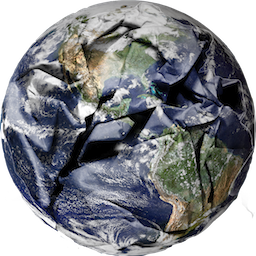
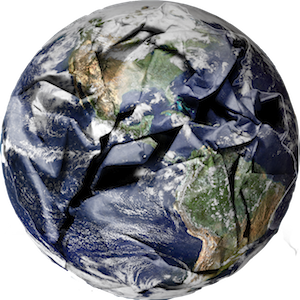
fixed explosions to actually happen at the right place after a collision, by using the physics enging box2d instead of rectangles to actual detect the collision

diff --git a/sat/sat/UniverseLayer.mm b/sat/sat/UniverseLayer.mm
@@ -8,7 +8,6 @@
 
 // Import the interfaces
 #import "UniverseLayer.h"
-
 // Needed to obtain the Navigation Controller
 #import "AppDelegate.h"
 
@@ -98,7 +97,9 @@ enum {
 	gravity.Set(0.0f, 0.0f);
 	world = new b2World(gravity);
 	
-	
+  // Create contact listener
+  _contactListener = new MyContactListener();
+  world->SetContactListener(_contactListener);
 	// Do we want to let bodies sleep?
 	world->SetAllowSleeping(true);
 	
@@ -157,9 +158,11 @@ enum {
   thePlanet->CreateFixture(&fixtureDef);
 
 	PhysicsSprite *sprite = [PhysicsSprite spriteWithFile:planetImage];
+  sprite.type = PLANET;
 
 	sprite.position=ccp(pX/PTM_RATIO,pY/PTM_RATIO);
 	[sprite setPhysicsBody:thePlanet];
+  thePlanet->SetUserData(sprite);
 	[_planets addObject:sprite];
   [self addChild:sprite];
 	
@@ -170,6 +173,7 @@ enum {
 -(void) addRocketAtPosition:(CGPoint)p  inDirection:(b2Vec2)direction imageNamed:(NSString*)bodyImage {
   CGSize s = [[CCDirector sharedDirector] winSize];
   PhysicsSprite *sprite = [PhysicsSprite spriteWithFile:bodyImage];
+   sprite.type = ROCKET;
   sprite.position = ccp( p.x, p.y);
   b2BodyDef bodyDef;
   bodyDef.type = b2_dynamicBody;
@@ -179,6 +183,7 @@ enum {
   body->ApplyForce(direction, center);
   [sprite setPhysicsBody:body];
   [self addChild:sprite];
+  body->SetUserData(sprite);
   self.rocket=sprite;
 }
 
@@ -188,6 +193,7 @@ enum {
     CCLOG(@"Add sprite %0.2f x %02.f",p.x,p.y);
   
     PhysicsSprite *sprite = [PhysicsSprite spriteWithFile:bodyImage];
+    sprite.type = SATELLITE;
     sprite.oldvel=0;
     sprite.velchange=0;
     sprite.oldDis=0;
@@ -242,9 +248,10 @@ enum {
 
 
   world->ClearForces();
-  NSMutableSet *collidedSatellites = [[NSMutableSet alloc] init];
+  
   for (PhysicsSprite *sat in _satellites){
     b2Vec2 debrisPosition=[sat getPhysicsBody]->GetWorldCenter();
+    b2CircleShape *satelliteShape=(b2CircleShape *)([sat getPhysicsBody]->GetFixtureList()->GetShape());
     for(PhysicsSprite *planet  in _planets){
       
       b2CircleShape *planetShape=(b2CircleShape *)([planet getPhysicsBody]->GetFixtureList()->GetShape());
@@ -265,46 +272,83 @@ enum {
         // This is the final formula to make the gravity weaker as we move far from the planet TODO: do we want this?
         [sat getPhysicsBody]->ApplyForce(planetDistance, [sat getPhysicsBody]->GetWorldCenter());
         
-        CGRect projectileRect = [sat boundingBox];
-        CGRect targetRects = [planet boundingBox];
-        if (CGRectIntersectsRect(projectileRect, targetRects)) {
-          [collidedSatellites addObject:sat];
-        }
+//        CGRect projectileRect = [sat boundingBox];
+//        CGRect targetRects = [planet boundingBox];
+//        if (CGRectIntersectsRect(projectileRect, targetRects)) {
+////        if([self circleIsColliding:satelliteShape withCircle:planetShape]) {
+//          [collidedSatellites addObject:sat];
+//        }
       }
     }
+  // DO collision detection
+    
+  NSSet* collidedSats=[self detectCollisions];
+
+  [self satellitesDidCrash:collidedSats];
+}
+
+-(NSSet*) detectCollisions {
+  NSMutableSet *collidedSatellites = [[NSMutableSet alloc] init];
+  std::vector<MyContact>::iterator pos;
+  for(pos = _contactListener->_contacts.begin();
+      pos != _contactListener->_contacts.end(); ++pos) {
+      MyContact contact = *pos;
+      b2Body *bodyA = contact.fixtureA->GetBody();
+      b2Body *bodyB = contact.fixtureB->GetBody();
+      if (bodyA->GetUserData() != NULL && bodyB->GetUserData() != NULL) {
+        PhysicsSprite *spriteA = (PhysicsSprite *) bodyA->GetUserData();
+        PhysicsSprite *spriteB = (PhysicsSprite *) bodyB->GetUserData();
+        if(spriteA.type==SATELLITE && spriteB.type==SATELLITE) {
+          // explode them both!
+          [collidedSatellites addObject:spriteA];
+          [collidedSatellites addObject:spriteB];
+        }
+        else if (spriteA.type==SATELLITE && spriteB.type==PLANET) {
+          //just explod the sat
+          [collidedSatellites addObject:spriteA];
+
+        }
+        else if (spriteA.type==PLANET && spriteB.type==SATELLITE) {
+          //just explod the sat
+          [collidedSatellites addObject:spriteB];
+        }
+      
+      }
+  }
+  return collidedSatellites;
   
-	[self satellitesDidCrash:collidedSatellites];
+}
+
+-(BOOL) circleIsColliding:(b2CircleShape*)circle1 withCircle:(b2CircleShape*) circle2 {
+  
+  return  pow( circle1->m_p.x-circle2->m_p.x,2 )  + pow( circle1->m_p.y-circle2->m_p.y,2 )  <  pow(circle1->m_radius +circle2->m_radius,2);
   
 }
 
 
 -(void) satellitesDidCrash:(NSSet*)sats{
 	for (PhysicsSprite *sat in sats) {
-		CCParticleSun *explosion = [CCParticleSun node];
-		//self.emitter.position = ccp( size.width /2 , size.height/2 );
+    if([_satellites containsObject:sat]) {
+      CCParticleSun *explosion = [CCParticleSun node];
+      //self.emitter.position = ccp( size.width /2 , size.height/2 );
+      
+      explosion.position = ccp([sat getPhysicsBody]->GetPosition().x*PTM_RATIO,[sat getPhysicsBody]->GetPosition().y*PTM_RATIO);
+      explosion.duration = 1;
+      explosion.gravity=CGPointZero;
+      
+      //explosion.anchorPoint = ccp(0.5f,0.5f);
+      explosion.autoRemoveOnFinish = YES;
+      explosion.texture = [[CCTextureCache sharedTextureCache ] addImage: @"4638.jpg"];
+      ccColor4F endColor = {1, 1, 1, 0};
+      //emitter.startColor = startColor;
+      explosion.endColor = endColor;
+      [self addChild:explosion z:10];
+      
+      
+      [sat removeFromParentAndCleanup:YES];
+      [_satellites removeObject:sat];
+    }
     
-		explosion.position = ccp([sat getPhysicsBody]->GetPosition().x*PTM_RATIO,[sat getPhysicsBody]->GetPosition().y*PTM_RATIO);
-		explosion.duration = 1;
-		explosion.gravity=CGPointZero;
-		
-		//explosion.anchorPoint = ccp(0.5f,0.5f);
-		explosion.autoRemoveOnFinish = YES;
-		explosion.texture = [[CCTextureCache sharedTextureCache ] addImage: @"4638.jpg"];
-		ccColor4F endColor = {1, 1, 1, 0};
-		//emitter.startColor = startColor;
-		explosion.endColor = endColor;
-		[self addChild:explosion z:10];
-		
-		
-		//CCParticleFire *emitter = [[CCParticleFire alloc] init];
-		//emitter.texture = [[CCTextureCache sharedTextureCache] addImage:@”particle.png”];
-		//mitter.position = ccp(340,160);
-		
-		//[self addChild:explosion];
-		//emitter.autoRemoveOnFinish = YES;
-		
-		[sat removeFromParentAndCleanup:YES];
-		[_satellites removeObject:sat];
 	}
 }
 
@@ -366,6 +410,7 @@ enum {
 	
 	delete m_debugDraw;
 	m_debugDraw = NULL;
+  delete _contactListener;
 	
 	[super dealloc];
 }

diff --git a/sat/sat/MyContactListener.mm b/sat/sat/MyContactListener.mm
@@ -1,0 +1,38 @@
+//
+//  MyContactListener.m
+//  Box2DPong
+//
+//  Created by Ray Wenderlich on 2/18/10.
+//  Copyright 2010 Ray Wenderlich. All rights reserved.
+//
+
+#import "MyContactListener.h"
+
+MyContactListener::MyContactListener() : _contacts() {
+}
+
+MyContactListener::~MyContactListener() {
+}
+
+void MyContactListener::BeginContact(b2Contact* contact) {
+    // We need to copy out the data because the b2Contact passed in
+    // is reused.
+    MyContact myContact = { contact->GetFixtureA(), contact->GetFixtureB() };
+    _contacts.push_back(myContact);
+}
+
+void MyContactListener::EndContact(b2Contact* contact) {
+    MyContact myContact = { contact->GetFixtureA(), contact->GetFixtureB() };
+    std::vector<MyContact>::iterator pos;
+    pos = std::find(_contacts.begin(), _contacts.end(), myContact);
+    if (pos != _contacts.end()) {
+        _contacts.erase(pos);
+    }
+}
+
+void MyContactListener::PreSolve(b2Contact* contact, const b2Manifold* oldManifold) {
+}
+
+void MyContactListener::PostSolve(b2Contact* contact, const b2ContactImpulse* impulse) {
+}
+

diff --git a/sat/sat/MyContactListener.h b/sat/sat/MyContactListener.h
@@ -1,0 +1,35 @@
+//
+//  MyContactListener.h
+//  Box2DPong
+//
+//  Created by Ray Wenderlich on 2/18/10.
+//  Copyright 2010 Ray Wenderlich. All rights reserved.
+//
+
+#import "Box2D.h"
+#import <vector>
+#import <algorithm>
+
+struct MyContact {
+    b2Fixture *fixtureA;
+    b2Fixture *fixtureB;
+    bool operator==(const MyContact& other) const
+    {
+        return (fixtureA == other.fixtureA) && (fixtureB == other.fixtureB);
+    }
+};
+
+class MyContactListener : public b2ContactListener {
+
+public:
+    std::vector<MyContact>_contacts;
+    
+    MyContactListener();
+    ~MyContactListener();
+    
+	virtual void BeginContact(b2Contact* contact);
+	virtual void EndContact(b2Contact* contact);
+	virtual void PreSolve(b2Contact* contact, const b2Manifold* oldManifold);    
+	virtual void PostSolve(b2Contact* contact, const b2ContactImpulse* impulse);
+    
+};

diff --git a/sat/sat/UniverseLayer.h b/sat/sat/UniverseLayer.h
@@ -12,7 +12,7 @@
 #import "GLES-Render.h"
 #import "CCPanZoomController.h"
 #import "PhysicsSprite.h"
-
+#import "MyContactListener.h"
 //Pixel to metres ratio. Box2D uses metres as the unit for measurement.
 //This ratio defines how many pixels correspond to 1 Box2D "metre"
 //Box2D is optimized for objects of 1x1 metre therefore it makes sense
@@ -28,6 +28,7 @@
 	CCPanZoomController *_controller;
 	GLESDebugDraw *m_debugDraw;		// strong ref
 	UIButton *launchButton;
+  MyContactListener *_contactListener;
 }
 
 @property (nonatomic,strong) NSMutableArray *planets;
@@ -36,6 +37,7 @@
 @property (nonatomic,strong) PhysicsSprite *rocket;
 @property (nonatomic) BOOL doMoveLeft;
 @property CGPoint tapPoint;
+
 // returns a CCScene that contains the HelloWorldLayer as the only child
 +(CCScene *) scene;
 

diff --git a/sat/sat/PhysicsSprite.h b/sat/sat/PhysicsSprite.h
@@ -9,6 +9,11 @@
 #import "cocos2d.h"
 #import "Box2D.h"
 
+enum  {
+  PLANET=1,
+  SATELLITE=2,
+  ROCKET=3
+} bodyType;
 @interface PhysicsSprite : CCSprite
 {
 	b2Body *body_;	// strong ref
@@ -17,7 +22,7 @@
 @property (nonatomic) float oldvel;
 @property (nonatomic) float velchange;
 @property (nonatomic) float oldDis;
-
+@property (nonatomic) int type;
 -(void) setPhysicsBody:(b2Body*)body;
 -(b2Body*) getPhysicsBody;
 
